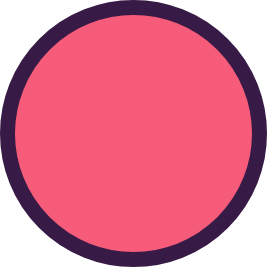
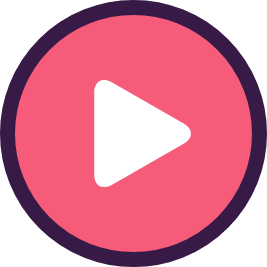
Boutons Accueil

Changed region(s): [[0.3296, 0.2996, 0.7191, 0.7191]]

diff --git a/ProjetTuteur-NodeJS-main/public/assets/style/styleAccueil.css b/ProjetTuteur-NodeJS-main/public/assets/style/styleAccueil.css
@@ -262,6 +262,13 @@ h1, h2, a {
         box-shadow: 1px 5px #dfdfdf60;
     }
 
+    .boutonSacADos {
+        width: 89px;
+        height: 89px;
+        top: -45px;
+        position: relative;
+    }
+
     /* Footer Accueil */
     .footerAccueilAll {
         width: 100%;
